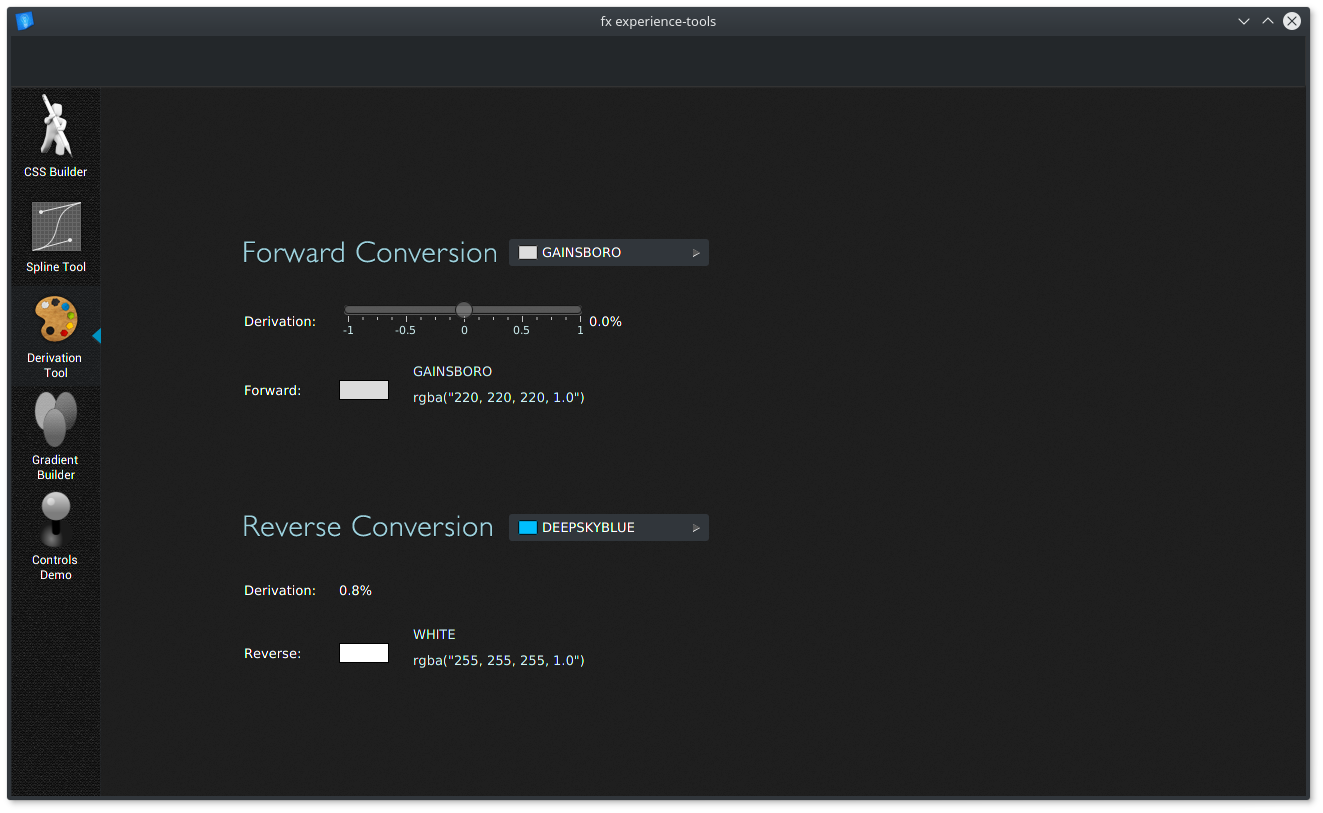
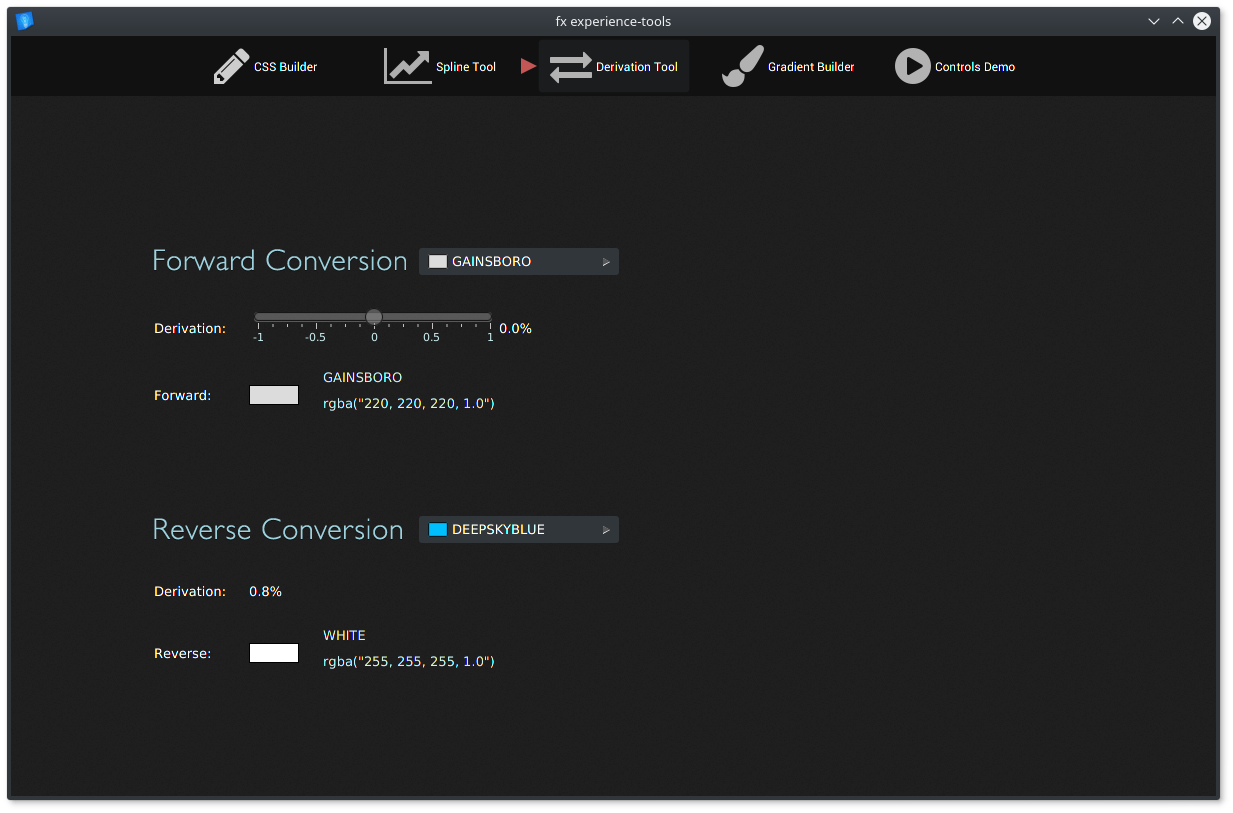
update layout  & theme

diff --git a/FXExperienceTools/src/main/resources/styles/fonts.css b/FXExperienceTools/src/main/resources/styles/fonts.css
@@ -1,0 +1,41 @@
+/**
+ * Licensed to the Apache Software Foundation (ASF) under one
+ * or more contributor license agreements.  See the NOTICE file
+ * distributed with this work for additional information
+ * regarding copyright ownership.  The ASF licenses this file
+ * to you under the Apache License, Version 2.0 (the
+ * "License"); you may not use this file except in compliance
+ * with the License.  You may obtain a copy of the License at
+ *
+ *   http://www.apache.org/licenses/LICENSE-2.0
+ *
+ * Unless required by applicable law or agreed to in writing,
+ * software distributed under the License is distributed on an
+ * "AS IS" BASIS, WITHOUT WARRANTIES OR CONDITIONS OF ANY
+ * KIND, either express or implied.  See the License for the
+ * specific language governing permissions and limitations
+ * under the License.
+ */
+
+@font-face {
+    font-family: Roboto;
+    src: url("../font/roboto/Roboto-Regular.ttf");
+}
+
+@font-face {
+    font-family: "Roboto Medium";
+    src: url("../font/roboto/Roboto-Medium.ttf");
+}
+
+@font-face {
+    font-family: "Roboto Light";
+    src: url("../font/roboto/Roboto-Light.ttf");
+}
+
+@font-face {
+    font-family: "Roboto Bold";
+    src: url("../font/roboto/Roboto-Bold.ttf");
+}
+
+
+/* NOTE: the file font must be included as the 1st css file in order to work */

diff --git a/FXExperienceTools/src/main/resources/styles/main_dark.css b/FXExperienceTools/src/main/resources/styles/main_dark.css
@@ -40,7 +40,7 @@ different terms and without source code for the larger work.
 
 .nav-box {
    -fx-background-image: url("../images/binding_dark.png");
-    /*-fx-effect: innershadow( three-pass-box , rgba(32,32, 32,0.5) ,60, 0.0 , 0 , 0 );*/
+    -fx-effect: innershadow( three-pass-box , rgba(32,32, 32,0.5) ,60, 0.0 , 0 , 0 );
 /*    -fx-background-color:  -fe-dark-inner-background;*/
     /*-fx-background-insets: 1, -5, 1, -5;*/
     /*-fx-background-radius: 9;*/

diff --git a/FXExperienceTools/src/main/resources/styles/style_panel_dark.css b/FXExperienceTools/src/main/resources/styles/style_panel_dark.css
@@ -44,7 +44,7 @@
     -fx-background-color: derive(-fe-inner-background,-30%),
         linear-gradient(to bottom,
             derive(-fe-inner-background,-3%),
-            derive(-fe-inner-background,5%) 50%,
+            derive(-fe-inner-background, 0%) 50%,
             derive(-fe-inner-background,-3%));
     -fx-background-radius: 3, 1, 2;
 }

diff --git a/FXExperienceTools/src/main/resources/styles/main_light.css b/FXExperienceTools/src/main/resources/styles/main_light.css
@@ -11,7 +11,7 @@ different terms and without source code for the larger work.
     /*-font-family: 'Roboto';*/
 }
 @font-face {
-    src: url('/fonts/Roboto-Light.ttf');
+    src: url('/font/Roboto-Light.ttf');
 
 }
 

diff --git a/FXExperienceTools/src/main/java/com/fxexperience/tools/controller/MainController.java b/FXExperienceTools/src/main/java/com/fxexperience/tools/controller/MainController.java
@@ -15,7 +15,6 @@ import com.fxexperience.tools.handler.ViewHandler;
 import com.fxexperience.tools.util.AppPaths;
 import javafx.animation.*;
 import javafx.application.Platform;
-import javafx.beans.binding.ObjectBinding;
 import javafx.beans.property.DoubleProperty;
 import javafx.beans.property.SimpleDoubleProperty;
 import javafx.event.ActionEvent;
@@ -26,9 +25,6 @@ import javafx.scene.Node;
 import javafx.scene.control.CheckMenuItem;
 import javafx.scene.control.ToggleButton;
 import javafx.scene.control.ToggleGroup;
-import javafx.scene.effect.ColorAdjust;
-import javafx.scene.effect.Effect;
-import javafx.scene.image.ImageView;
 import javafx.scene.layout.AnchorPane;
 import javafx.scene.layout.BorderPane;
 import javafx.scene.layout.StackPane;
@@ -50,8 +46,6 @@ public final class MainController extends AbstractController implements Initiali
     // Custom interpolator for the slide animation transition
     private static final Interpolator INTERPOLATOR = Interpolator.SPLINE(0.4829, 0.5709, 0.6803, 0.9928);
 
-    private final DoubleProperty arrowHeight = new SimpleDoubleProperty(52);
-
     // Holds the tools to be displayed
     private final HashMap<Integer, Node> tools = new HashMap<>();
 
@@ -61,6 +55,7 @@ public final class MainController extends AbstractController implements Initiali
     @FXML private ToggleButton derivedColorToggle;
     @FXML private ToggleButton gradientBuilderToggle;
     @FXML private ToggleButton animationToggle;
+    @FXML private StackPane arrow;
 
     @FXML private BorderPane rootBorderPane;
     @FXML private AnchorPane rootAnchorPane;
@@ -91,13 +86,16 @@ public final class MainController extends AbstractController implements Initiali
      */
     @Override
     public void initialize(URL url, ResourceBundle rb) {
-        loadToggleGroup();
-        loadTools();
-        loadSelectedToolArrow();
+        initializeToggles();
+        initializeTools();
+
+        arrow.setManaged(false);
+        arrow.setLayoutY(30);
+        arrow.layoutXProperty().bind(stylerToggle.layoutXProperty().subtract(10));
     }
 
     // Creates toggle group to bind color icon effect
-    private void loadToggleGroup() {
+    private void initializeToggles() {
         ToggleGroup toggleGroup = new ToggleGroup();
         toggleGroup.getToggles().addAll(stylerToggle, splineToggle, derivedColorToggle,
                 gradientBuilderToggle, animationToggle);
@@ -107,20 +105,20 @@ public final class MainController extends AbstractController implements Initiali
 
     // Adjusts the color of the toogle icons upon selection
     private void setIconBinding(ToggleButton toggle) {
-        ImageView icon = (ImageView) toggle.getGraphic();
-        icon.effectProperty().bind(new ObjectBinding<Effect>() {
-            {
-                bind(toggle.selectedProperty());
-            }
-
-            @Override
-            protected Effect computeValue() {
-                return toggle.isSelected() ? null : new ColorAdjust(0, -1, 0, 0);
-            }
-        });
+//        ImageView icon = (ImageView) toggle.getGraphic();
+//        icon.effectProperty().bind(new ObjectBinding<Effect>() {
+//            {
+//                bind(toggle.selectedProperty());
+//            }
+//
+//            @Override
+//            protected Effect computeValue() {
+//                return toggle.isSelected() ? null : new ColorAdjust(0, -1, 0, 0);
+//            }
+//        });
     }
 
-    private void loadTools() {
+    private void initializeTools() {
         StyleController = new StyleController();
         splineController = new SplineController();
         derivationController = new DerivationController();
@@ -140,13 +138,6 @@ public final class MainController extends AbstractController implements Initiali
         currentPane.getChildren().add(StyleController);
         rootContainer.getChildren().addAll(currentPane, sparePane);
         currentToolIndex = Tool.CSS.ordinal();
-    }
-
-    private void loadSelectedToolArrow() {
-        // create toolbar background path
-        toolBar.setClip(createToolBarPath(Color.web("#2c2f33"), null));
-        Path toolBarBackground = createToolBarPath(null, Color.web("#2c2f33"));
-        toolBar.getChildren().add(toolBarBackground);
     }
 
     // Displays a new tool and applies the slide transitions
@@ -232,36 +223,7 @@ public final class MainController extends AbstractController implements Initiali
     };
 
     private void setArrow(Node toggleButton) {
-        double minY = toggleButton.getBoundsInParent().getMinY();
-        double centerY = toggleButton.getLayoutBounds().getHeight() / 2.0;
-        arrowHeight.set(minY + centerY);
-    }
-
-    private Path createToolBarPath(Paint fill, Paint stroke) {
-        final double toolbarWidth = 90;
-        final Path toolPath = new Path();
-
-        toolPath.setFill(fill);
-        toolPath.setStroke(stroke);
-        toolPath.setStrokeType(StrokeType.CENTERED);
-        LineTo arrowTop = new LineTo(toolbarWidth,0);
-        arrowTop.yProperty().bind(arrowHeight.add(-8));
-        LineTo arrowTip = new LineTo(toolbarWidth-9,0);
-        arrowTip.yProperty().bind(arrowHeight);
-        LineTo arrowBottom = new LineTo(toolbarWidth,0);
-        arrowBottom.yProperty().bind(arrowHeight.add(8));
-        LineTo bottomRight = new LineTo(toolbarWidth,0);
-        bottomRight.yProperty().bind(toolBar.heightProperty());
-        LineTo bottomLeft = new LineTo(0,0);
-        bottomLeft.yProperty().bind(toolBar.heightProperty());
-        toolPath.getElements().addAll(
-                new MoveTo(0,0),
-                new LineTo(toolbarWidth,0),
-                arrowTop, arrowTip, arrowBottom,
-                bottomRight, bottomLeft,
-                new ClosePath()
-        );
-        return toolPath;
+        arrow.layoutXProperty().bind(toggleButton.layoutXProperty().subtract(10));
     }
 
     private void displayStatusAlert(String textMessage) {
